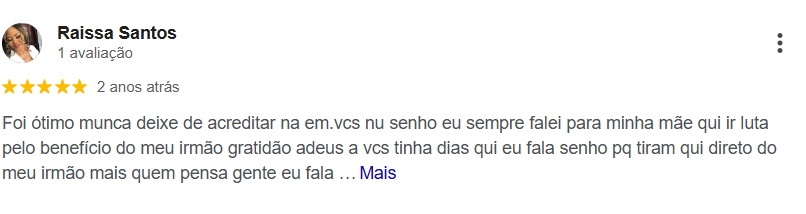
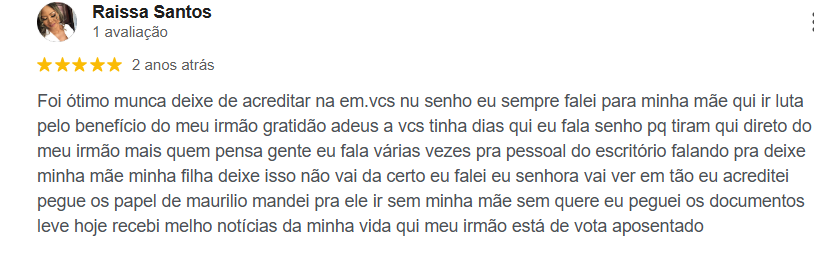
mundaças pequenas

diff --git a/index.html b/index.html
@@ -120,6 +120,7 @@ nav.scrolled{background:rgba(10,22,40,0.97);backdrop-filter:blur(20px);padding:1
 .area-arrow{display:inline-flex;align-items:center;gap:0.6rem;margin-top:2rem;font-size:0.72rem;font-weight:500;letter-spacing:0.12em;text-transform:uppercase;color:var(--gold);transition:gap 0.3s}
 .area-item:hover .area-arrow{gap:1rem}
 
+
 /* AVALIAÇÕES GOOGLE */
 .section-testimonials{background:var(--white);padding:9rem 0;position:relative;overflow:hidden}
 .section-testimonials::before{content:'AVALIAÇÕES';position:absolute;top:50%;left:50%;transform:translate(-50%,-50%);font-family:var(--serif);font-size:clamp(8rem,15vw,18rem);font-weight:700;color:rgba(184,149,42,0.04);white-space:nowrap;pointer-events:none;letter-spacing:0.1em}
@@ -195,7 +196,7 @@ footer{background:var(--ink);padding:5rem 0 3rem}
 </head>
 <body>
 <div class="loader" id="loader">
-  <img src="images.png" alt="Kayo Melo" class="loader-logo" style="height: 200px; width: auto;">
+  <img src="images.png" alt="Kayo Melo" class="loader-logo" style="height: 100px; width: auto;">
   <div class="loader-bar"></div>
 </div>
 
@@ -437,7 +438,7 @@ Rua Benilde Dantas, 300 - Centro,
       </div>
     </div>
     <div class="footer-bottom">
-      <p>© 2025 Kayo Melo Advogados. Site produzido por <a href="https://ominustech.com" target="_blank" rel="noopener noreferrer">Ominus Tech</a>. Todos os direitos reservados. <a href="#">Política de Privacidade (LGPD)</a></p>
+      <p>© 2025 Kayo Melo Advogados. Site produzido por <a href="https://ominustech.com" target="_blank" rel="noopener noreferrer">Ominus Tech</a>. Todos os direitos reservados. <a href="lgpd.html">Política de Privacidade (LGPD)</a></p>
       <p>OAB/RN — Advocacia com ética e responsabilidade</p>
     </div>
   </div>

diff --git a/blog.html b/blog.html
@@ -223,7 +223,7 @@ footer{background:var(--ink);padding:5rem 0 3rem}
 </head>
 <body>
 <div class="loader" id="loader">
-  <img src="images.png" alt="Kayo Melo" class="loader-logo" style="height: 200px; width: auto;">
+  <img src="images.png" alt="Kayo Melo" class="loader-logo" style="height: 100px; width: auto;">
   <div class="loader-bar"></div>
 </div>
 
@@ -346,7 +346,7 @@ nega o Mounjaro?</h2>
       <a href="post4.html" class="post-card" data-cat="tributario">
         <div class="post-card-img-wrap">
           <img class="post-card-img" src="https://media.gettyimages.com/id/474121696/pt/vetorial/feliz-fam%C3%ADlia-com-filhos-andar-ao-p%C3%B4r-do-sol-tempo.jpg?s=612x612&w=0&k=20&c=Joeuy__GPYBaqWwuhhRvIkXcxRi8KUPP3gSLDuPuvbY=" alt="">
-          <span class="post-card-tag">Tributário</span>
+          <span class="post-card-tag">Saúde</span>
         </div>
         <div class="post-card-body">
           <div class="post-card-meta">

diff --git a/areas.html b/areas.html
@@ -206,7 +206,7 @@ footer{background:var(--ink);padding:5rem 0 3rem}
 </head>
 <body>
 <div class="loader" id="loader">
-  <img src="images.png" alt="Kayo Melo" class="loader-logo" style="height: 200px; width: auto;">
+  <img src="images.png" alt="Kayo Melo" class="loader-logo" style="height: 100px; width: auto;">
   <div class="loader-bar"></div>
 </div>
 

diff --git a/contato.html b/contato.html
@@ -158,7 +158,7 @@ footer{background:var(--ink);padding:5rem 0 3rem}
 </head>
 <body>
 <div class="loader" id="loader">
-  <img src="images.png" alt="Kayo Melo" class="loader-logo" style="height: 200px; width: auto;">
+  <img src="images.png" alt="Kayo Melo" class="loader-logo" style="height: 100px; width: auto;">
   <div class="loader-bar"></div>
 </div>
 

diff --git a/lgpd.html b/lgpd.html
@@ -151,7 +151,7 @@ footer{background:var(--ink);padding:5rem 0 3rem}
 <body>
 
 <div class="loader" id="loader">
-  <img src="images.png" alt="Kayo Melo" class="loader-logo" style="height: 200px; width: auto;">
+  <img src="images.png" alt="Kayo Melo" class="loader-logo" style="height: 100px; width: auto;">
   <div class="loader-bar"></div>
 </div>
 
